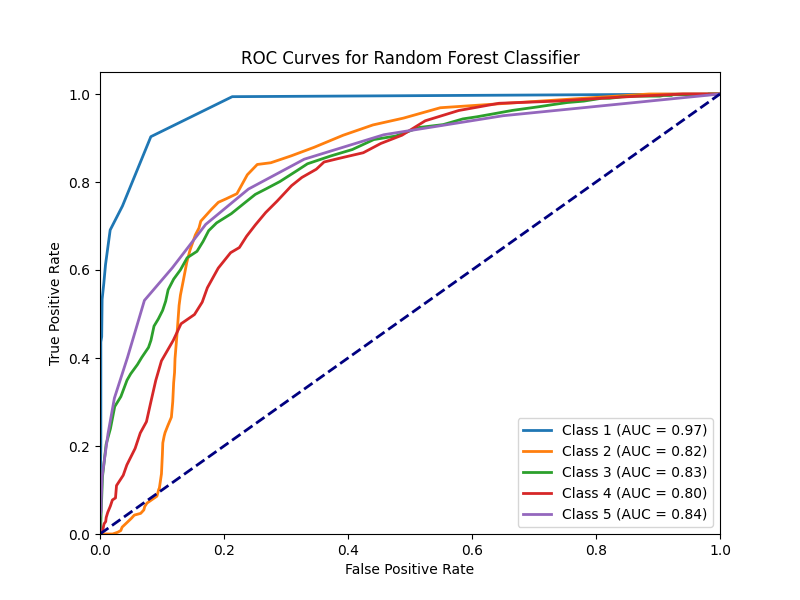
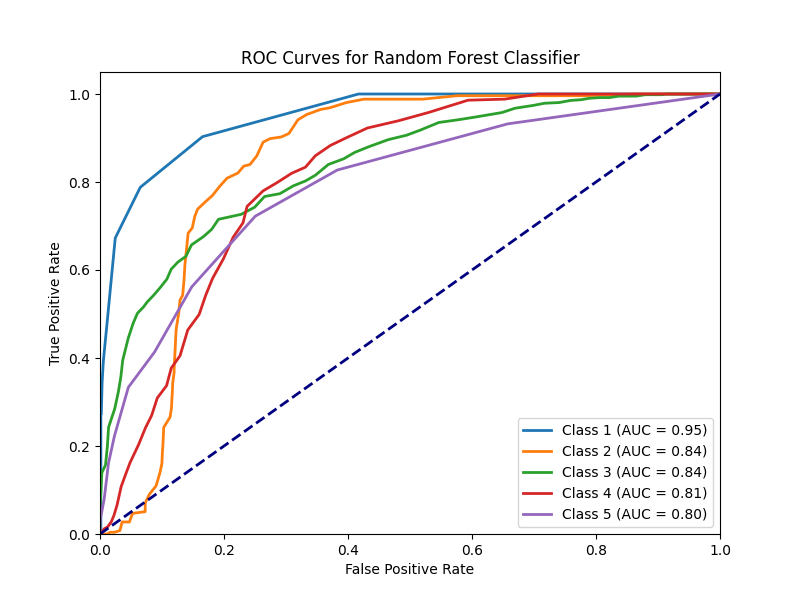
Slightly improved Random Forest and SVM Classifiers.

diff --git a/random_forest.py b/random_forest.py
@@ -15,8 +15,10 @@ def train_random_forest(X_train, y_train, X_test, y_test):
     X_train = scaler.fit_transform(X_train)
     X_test = scaler.transform(X_test)
 
+    class_weights = {1: 1.0, 2: 3.0, 3: 1.0, 4: 1.0, 5: 1.0}
+
     # create a Random Forest
-    random_forest = RandomForestClassifier(random_state=42, n_estimators=70, bootstrap=True)
+    random_forest = RandomForestClassifier(random_state=42, n_estimators=70, bootstrap=True, class_weight=class_weights)
     # fit (train) the model on the training data
     random_forest.fit(X_train, y_train)
 
@@ -27,8 +29,8 @@ def train_random_forest(X_train, y_train, X_test, y_test):
     accuracy = accuracy_score(y_test, y_pred)
     # print(f'Accuracy: {accuracy:.5f}')
 
-    print(f'Train Accuracy - : {random_forest.score(X_train, y_train):.2f}')
-    print(f'Test Accuracy - : {random_forest.score(X_test, y_test):.2f}')
+    print(f'Train Accuracy - : {random_forest.score(X_train, y_train):.5f}')
+    print(f'Test Accuracy - : {random_forest.score(X_test, y_test):.5f}')
 
     print('Classification Report:')
     print(classification_report(y_test, y_pred))

diff --git a/svm.py b/svm.py
@@ -15,7 +15,7 @@ def train_svm(X_train, y_train, X_test, y_test):
     X_test_scaled = scaler.transform(X_test)
 
     # Set custom weights for specific classes (e.g., class 1 and class 3)
-    custom_weights = {1: 1, 2: 1, 3: 1, 4: 1, 5: 1}
+    custom_weights = {1: 1.0, 2: 1.5, 3: 1.0, 4: 1.0, 5: 1.0}
 
     # Calculate class weights
     class_weights = {cls: custom_weights.get(cls, 1.0 / count) for cls, count in
@@ -32,10 +32,10 @@ def train_svm(X_train, y_train, X_test, y_test):
     y_pred_svc = svc.predict(X_test_scaled)
 
     # evaluate the model
-    print(f'Train Accuracy - : {svc.score(X_train_scaled, y_train):.2f}')
+    print(f'Train Accuracy - : {svc.score(X_train_scaled, y_train):.5f}')
 
     accuracy_svc = accuracy_score(y_test, y_pred_svc)
-    print(f'Test Accuracy (SVC) - : {accuracy_svc:.2f}')
+    print(f'Test Accuracy (SVC) - : {accuracy_svc:.5f}')
 
     # Display classification report
     print('Classification Report (SVC):')

diff --git a/mlp.py b/mlp.py
@@ -23,11 +23,11 @@ def train_mlp(X_train, y_train, X_test, y_test):
 
     # evaluate on training set
     accuracy_train_mlp = mlp_classifier.score(X_train_scaled, y_train)
-    print(f'Accuracy (MLP) on training set - : {accuracy_train_mlp:.2f}')
+    print(f'Accuracy (MLP) on training set - : {accuracy_train_mlp:.5f}')
 
     # evaluate on test set
     accuracy_mlp = accuracy_score(y_test, y_pred_mlp)
-    print(f'Accuracy (MLP) on test set - : {accuracy_mlp:.2f}')
+    print(f'Accuracy (MLP) on test set - : {accuracy_mlp:.5f}')
 
     print('Classification Report (MLP):')
     print(classification_report(y_test, y_pred_mlp))
